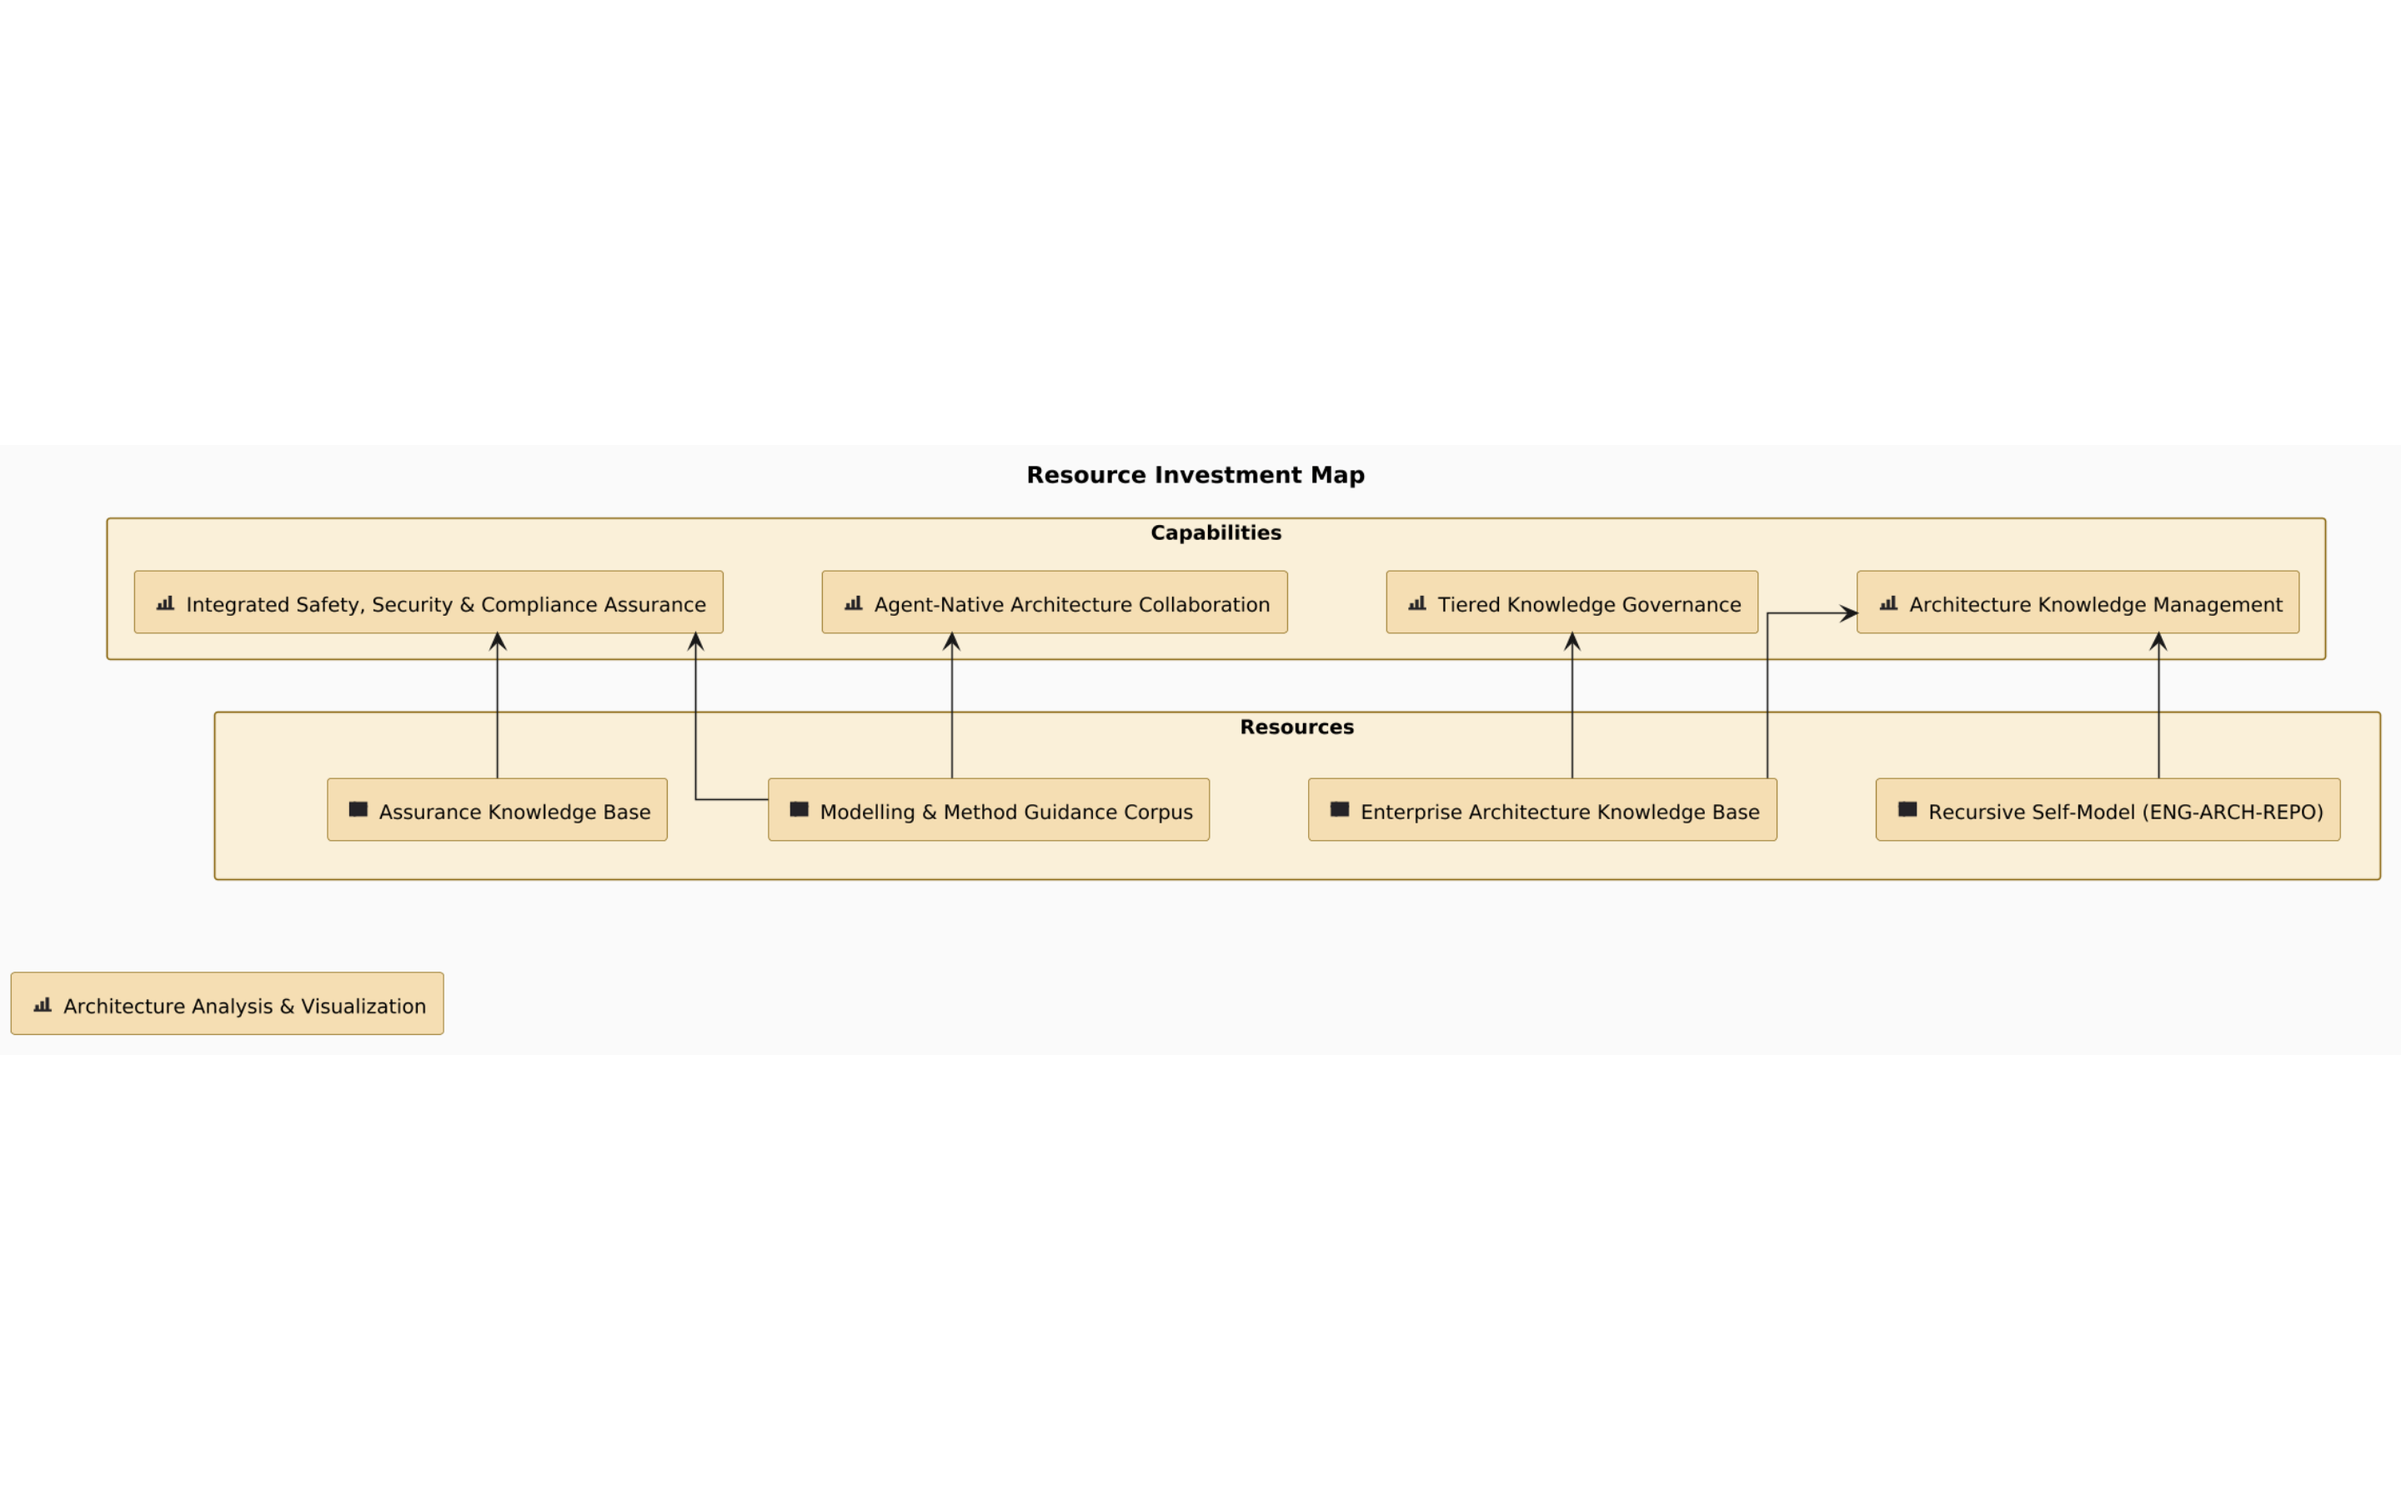
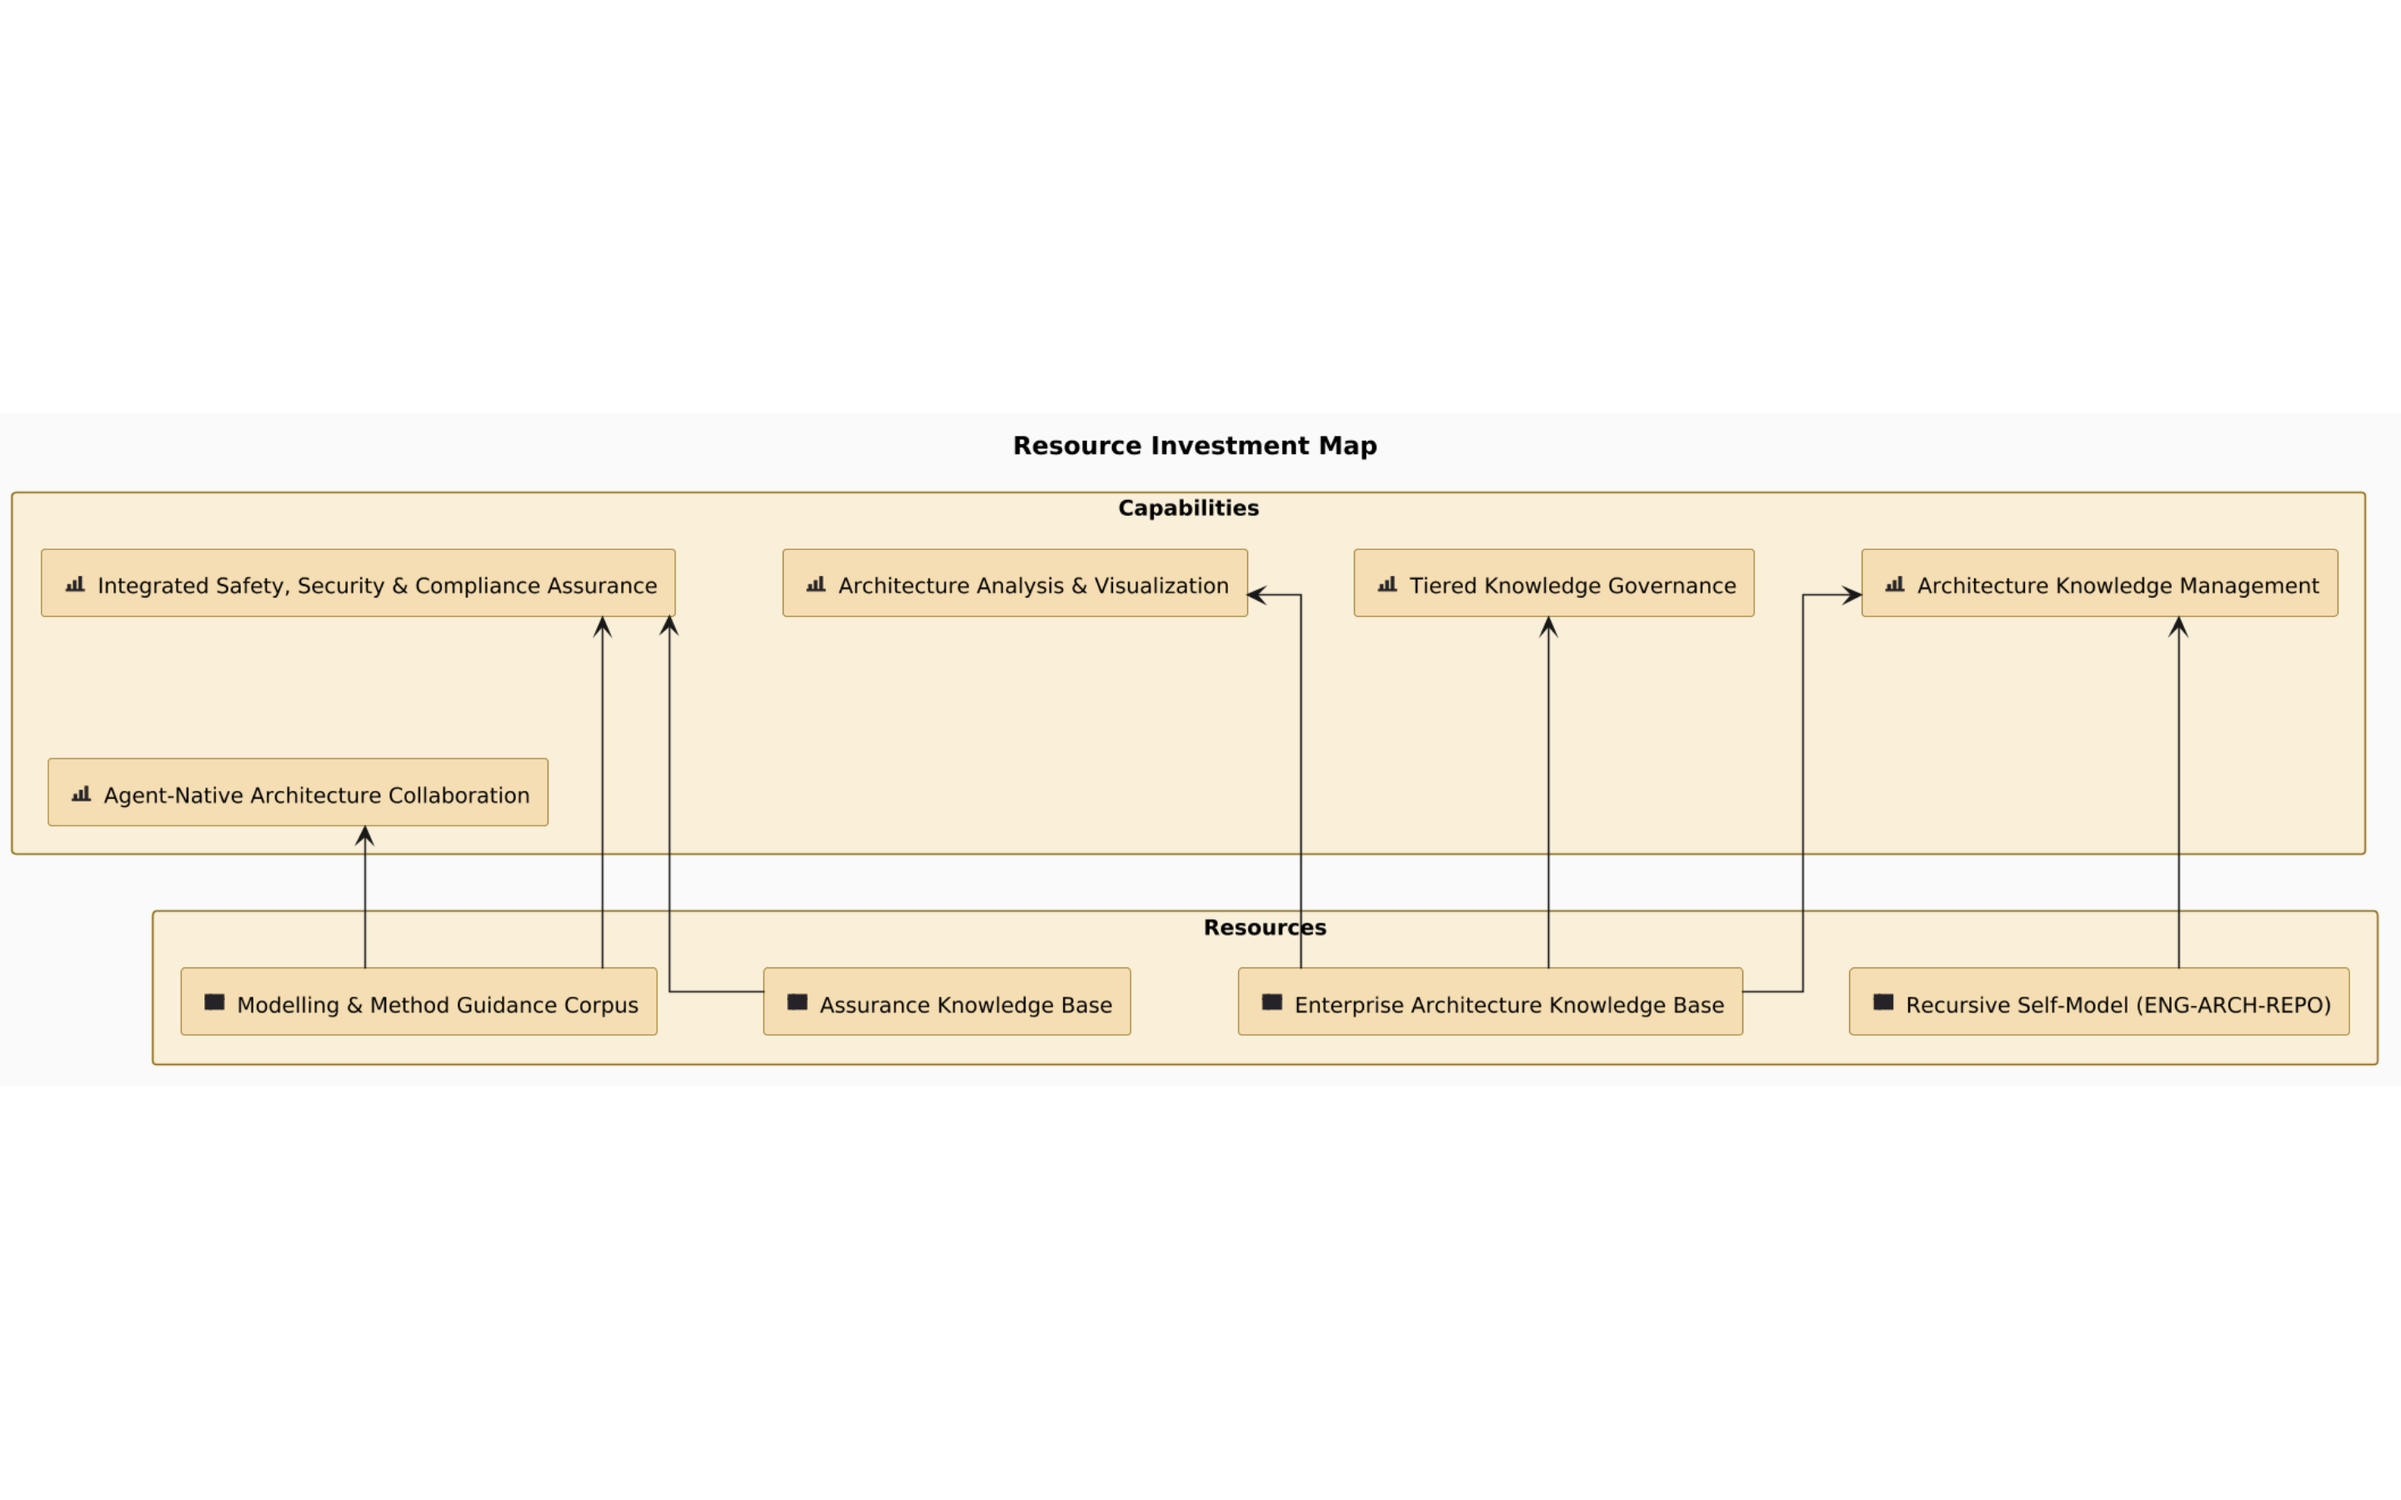
Model: assign the EA knowledge base to Architecture Analysis & Visualization; refresh resource-map showcase

Changed region(s): [[0.0, 0.28, 1.0, 0.7156]]

diff --git a/engagements/ENG-ARCH-REPO/architecture-repository/projects/strategy-and-value/model/strategy/resource/RES@1784482462.dz41en.enterprise-architecture-knowledge-base.outgoing.md b/engagements/ENG-ARCH-REPO/architecture-repository/projects/strategy-and-value/model/strategy/resource/RES@1784482462.dz41en.enterprise-architecture-knowledge-base.outgoing.md
@@ -14,3 +14,7 @@ The enterprise knowledge base is the asset the tiering ability governs and grows
 ### archimate-assignment → CAP@1784482403.pLMHKe.architecture-knowledge-management
 
 The accumulated enterprise knowledge feeds the knowledge-management ability with reusable reference content.
+
+### archimate-assignment → CAP@1784482442.0kQIHh.architecture-analysis-visualization
+
+The knowledge base is the asset the analysis and visualization capability operates on: views, viewpoint executions, and impact analyses are derived from its content.
